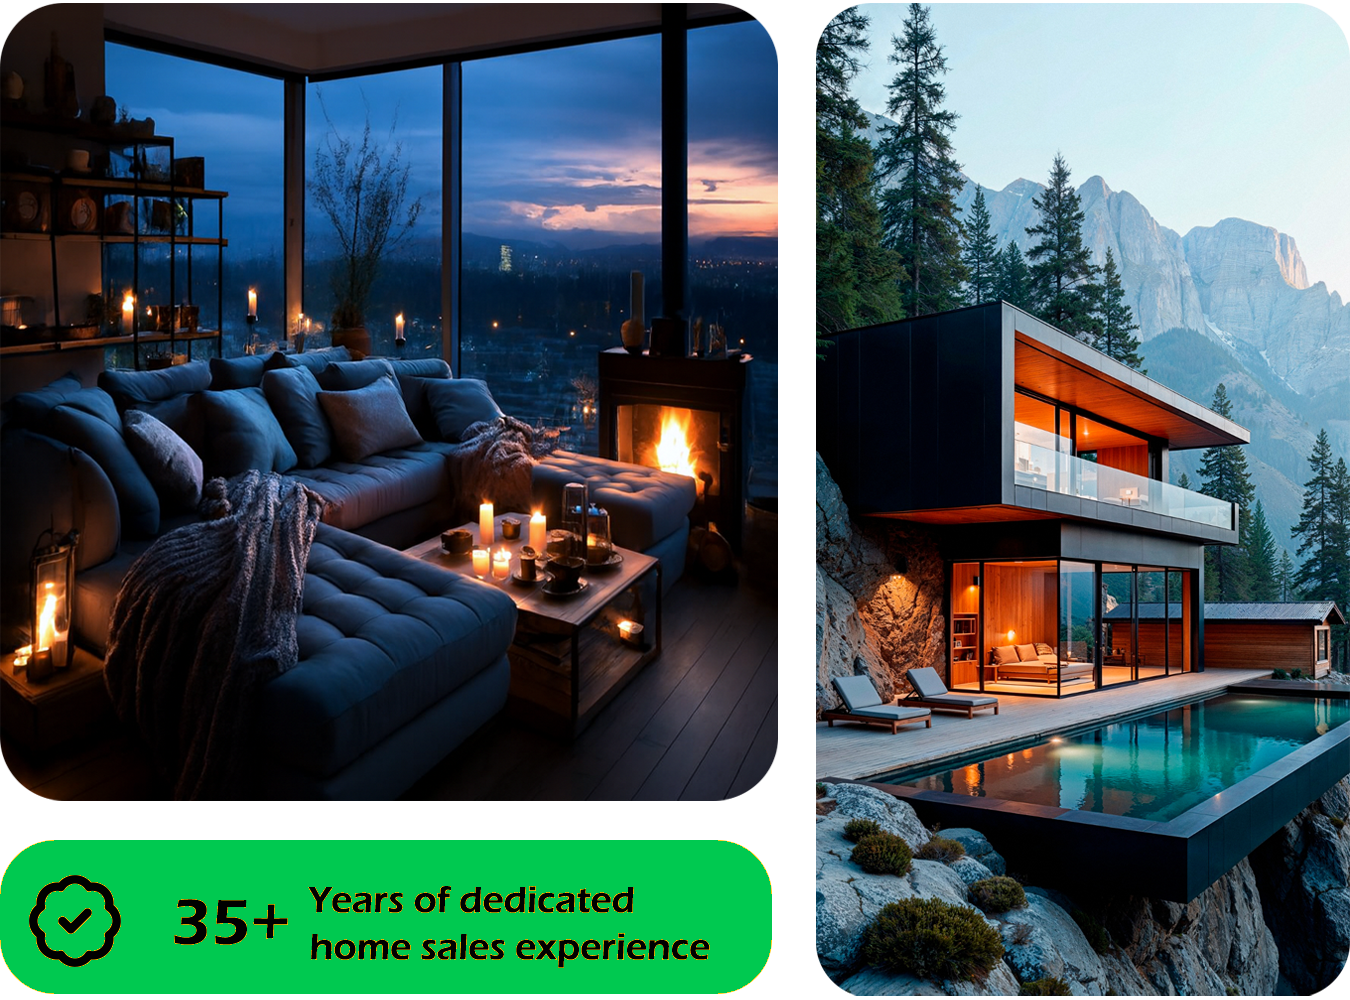
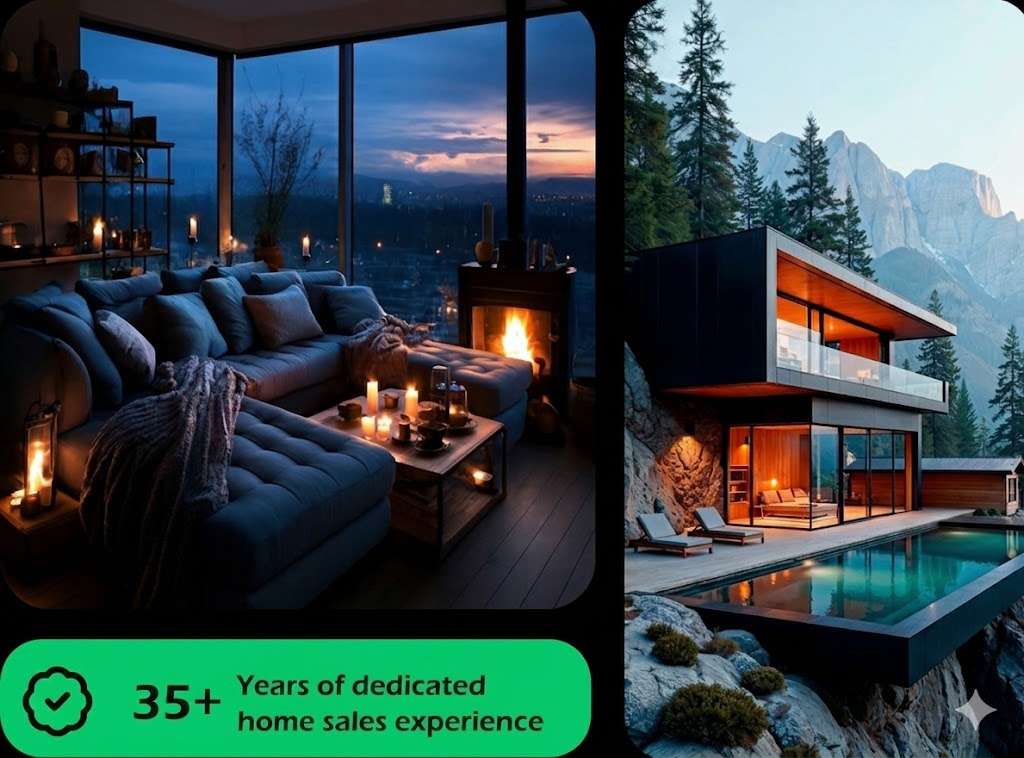
feat(frontend): initial scaffold with core pages, components, routing, and Tailwind
Body:

Add initial frontend scaffold and structure for the app.
Files added/updated (high level): public/index.html, vite.config.ts, TypeScript configs (tsconfig.json, tsconfig.app.json, tsconfig.node.json), lint config (eslint.config.js), package.json, and core source files: src/main.tsx, src/App.tsx, src/index.css.
Components added: src/components/Navbar.tsx, src/components/Header.tsx, src/components/Hero.tsx, src/components/Footer.tsx.
Pages added: src/pages/Home.tsx, src/pages/Listing.tsx, src/pages/Blog.tsx, src/pages/Contact.tsx.
Assets folder added as a single bundle: src/assets/ (contains images/data used by the UI).
Dependencies installed:
runtime: react@^19.2.5, react-dom@^19.2.5, react-router-dom@^7.15.1, tailwindcss@^4.2.4, @user/vite@^4.2.4
dev: vite@^8.0.10, typescript@~6.0.2, @user/plugin-react@^6.0.1, eslint@^10.2.1, plus TS/ESLint typings and plugins.
Purpose: provide a minimal, navigable frontend starting point with routing, Tailwind-based styling, and a component/page split ready for backend integration.
Quick run: npm install -> npm run dev.

diff --git a/frontend/src/App.tsx b/frontend/src/App.tsx
@@ -1,10 +1,22 @@
-import { Routes } from "react-router-dom"
+import { Route, Routes } from "react-router-dom"
+import Header from "./components/Header"
+import Home from "./pages/Home"
+import Listing from "./pages/Listing"
+import Footer from "./components/Footer"
+import Blog from "./pages/Blog"
+import Contact from "./pages/Contact"
 
 const App = () => {
   return (
     <main>
+      <Header />
       <Routes>
+        <Route path='/' element={<Home />} />
+        <Route path='/listing' element={<Listing />} />
+        <Route path='/blog' element={<Blog />} />
+        <Route path='/contact' element={<Contact />} />
       </Routes>
+      <Footer />
     </main>
   )
 }

diff --git a/frontend/src/components/Footer.tsx b/frontend/src/components/Footer.tsx
@@ -1,0 +1,7 @@
+const Footer = () => {
+    return (
+        <div>Footer</div>
+    )
+}
+
+export default Footer

diff --git a/frontend/src/components/Header.tsx b/frontend/src/components/Header.tsx
@@ -1,0 +1,7 @@
+const Header = () => {
+    return (
+        <div>Header</div>
+    )
+}
+
+export default Header

diff --git a/frontend/src/components/Hero.tsx b/frontend/src/components/Hero.tsx
@@ -1,0 +1,7 @@
+const Hero = () => {
+    return (
+        <div>Hero</div>
+    )
+}
+
+export default Hero

diff --git a/frontend/src/components/Navbar.tsx b/frontend/src/components/Navbar.tsx
@@ -1,0 +1,7 @@
+const Navbar = () => {
+    return (
+        <div>Navbar</div>
+    )
+}
+
+export default Navbar

diff --git a/frontend/src/pages/Blog.tsx b/frontend/src/pages/Blog.tsx
@@ -1,0 +1,7 @@
+const Blog = () => {
+    return (
+        <div>Blog</div>
+    )
+}
+
+export default Blog

diff --git a/frontend/src/pages/Contact.tsx b/frontend/src/pages/Contact.tsx
@@ -1,0 +1,7 @@
+const Contact = () => {
+    return (
+        <div>Contact</div>
+    )
+}
+
+export default Contact

diff --git a/frontend/src/pages/Home.tsx b/frontend/src/pages/Home.tsx
@@ -1,0 +1,7 @@
+const Home = () => {
+    return (
+        <div>Home</div>
+    )
+}
+
+export default Home

diff --git a/frontend/src/pages/Listing.tsx b/frontend/src/pages/Listing.tsx
@@ -1,0 +1,7 @@
+const Listing = () => {
+    return (
+        <div>Listing</div>
+    )
+}
+
+export default Listing

diff --git a/frontend/src/index.css b/frontend/src/index.css
@@ -72,9 +72,9 @@ body {
 
 @layer utilities {
 
-    .font-paci {
+    /* .font-paci {
         font-family: 'Pacifico', cursive;
-    }
+    } */
 
     .active-link {
         @apply relative after:w-2/5 after:h-1 after:rounded-full after:bg-secondary after:absolute after:-bottom-0.5 after:right-3;